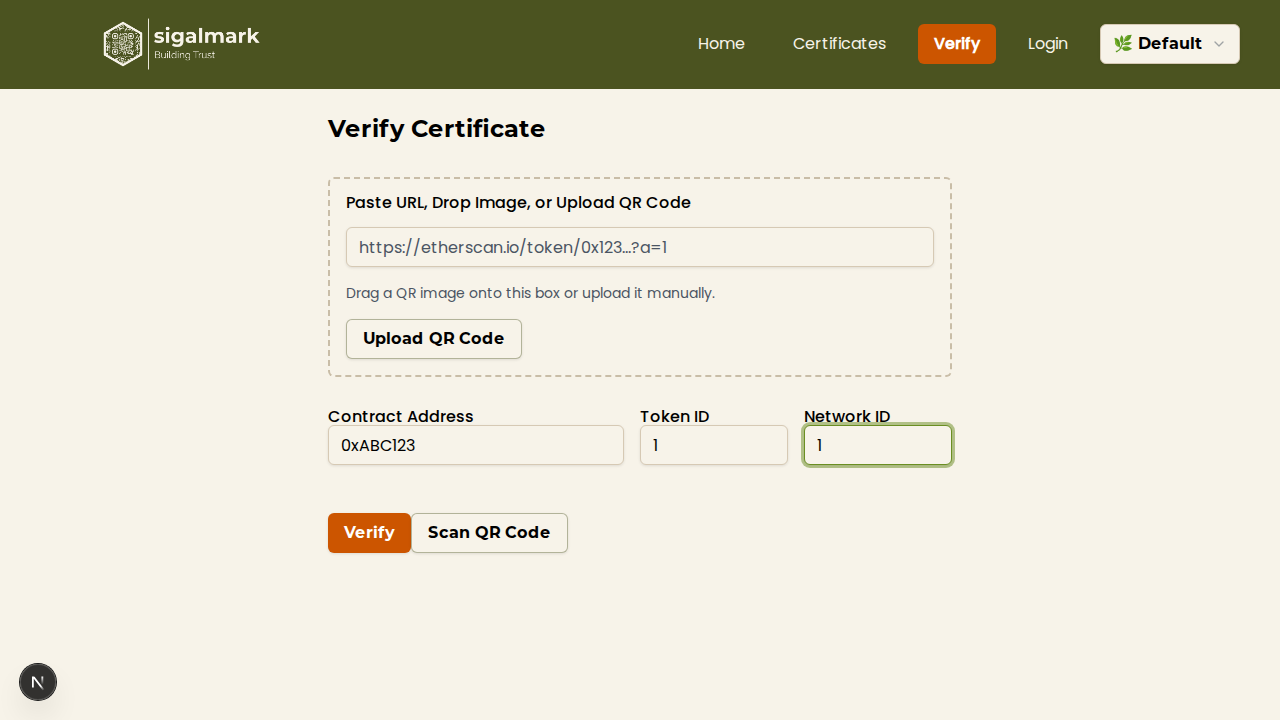
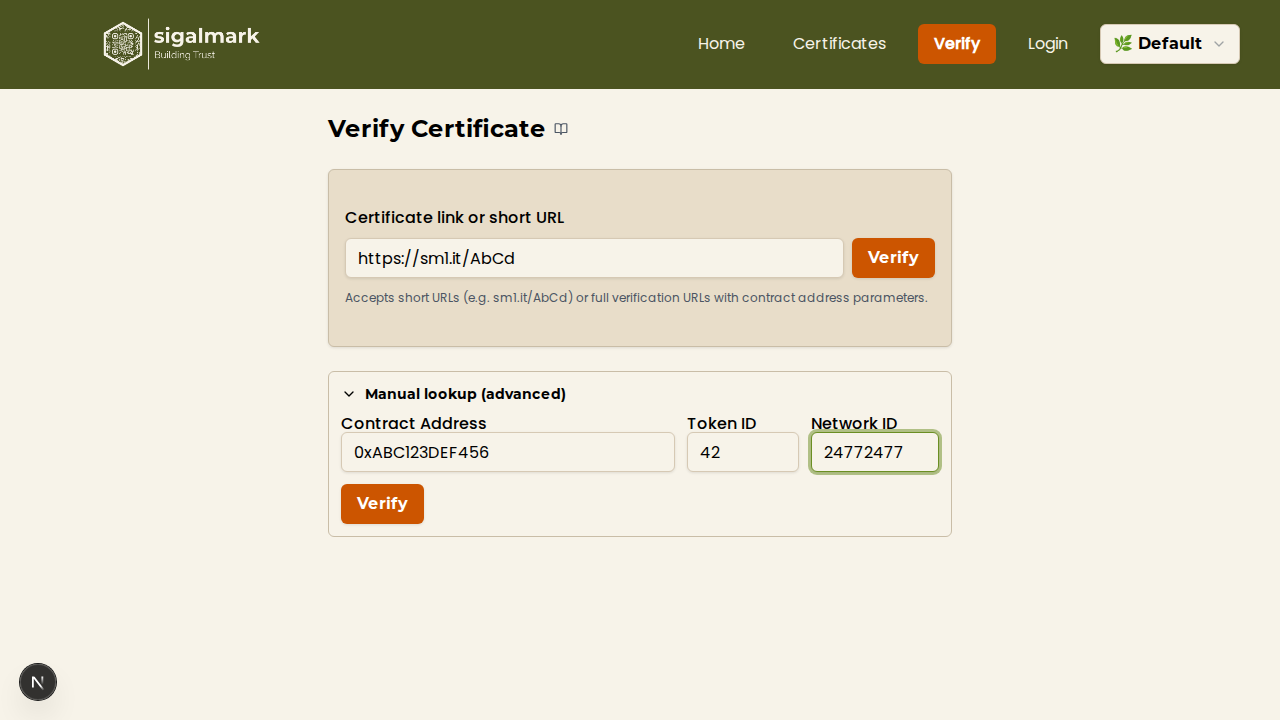
docs: update verification screenshots and docs for new verify UI

diff --git a/tutorial-user.html b/tutorial-user.html
@@ -271,59 +271,53 @@
 
     <!-- ================================================================== -->
     <h2 id="verifying-certificates">6. Verifying Certificates</h2>
-    <p>Sigalmark provides multiple ways to verify the authenticity of a certificate. Verification reads data directly from the blockchain, ensuring that the certificate is genuine and has not been tampered with.</p>
+    <p>Sigalmark lets anyone verify the authenticity of a certificate. Verification reads data directly from the blockchain, ensuring the certificate is genuine and has not been tampered with. No login is required.</p>
 
-    <h3>6.1 Verify via QR Code</h3>
+    <h3>6.1 Verify via Link</h3>
+    <p>The primary way to verify a certificate is by pasting its link:</p>
     <ol>
-      <li>Navigate to the <strong>Verify</strong> page from the main navigation (this page is publicly accessible and does not require login).</li>
-      <li>You have two options for QR code verification:
+      <li>Navigate to the <strong>Verify</strong> page from the main navigation.</li>
+      <li>Paste a certificate link into the input field. This can be:
         <ul>
-          <li><strong>Camera Scan</strong> &mdash; click the camera icon or <strong>Scan QR Code</strong> button, then point your device's camera at the certificate's QR code.</li>
-          <li><strong>Upload Image</strong> &mdash; if you have a screenshot or photo of the QR code, click <strong>Upload</strong> and select the image file from your device.</li>
+          <li>A <strong>short URL</strong> (e.g. <code>sm1.it/AbCd</code>) &mdash; typically found on QR codes.</li>
+          <li>A <strong>full verification URL</strong> with contract address parameters.</li>
         </ul>
       </li>
-      <li>The system will automatically decode the QR code and retrieve the certificate details from the blockchain.</li>
+      <li>Click <strong>Verify</strong>. The system resolves the link and fetches the certificate data from the blockchain.</li>
     </ol>
-    <img src="images/user-verify-page.png" alt="Verification page with scan and input options" style="max-width:100%;border:1px solid #e5e7eb;border-radius:8px;margin:12px 0;">
+    <img src="images/user-verify-page.png" alt="Verification page with link input and Verify button" style="max-width:100%;border:1px solid #e5e7eb;border-radius:8px;margin:12px 0;">
 
-    <h3>6.2 Verify via URL</h3>
+    <h3>6.2 Manual Lookup (Advanced)</h3>
+    <p>If you have the raw blockchain details of a certificate, expand the <strong>Manual lookup (advanced)</strong> section:</p>
     <ol>
-      <li>On the Verify page, locate the URL input field.</li>
-      <li>Paste the full certificate verification URL (e.g., a short link from <code>sm1.it</code> or a full Sigalmark verification URL).</li>
-      <li>Click <strong>Verify</strong>. The system will resolve the URL and fetch the certificate data from the blockchain.</li>
-    </ol>
-
-    <h3>6.3 Verify via Manual Input</h3>
-    <p>If you have the raw blockchain details of a certificate, you can verify it manually:</p>
-    <ol>
-      <li>On the Verify page, switch to the <strong>Manual Input</strong> section.</li>
+      <li>Click <strong>Manual lookup (advanced)</strong> to expand the form.</li>
       <li>Enter the following three fields:
         <ul>
-          <li><strong>Contract Address</strong> &mdash; the Ethereum contract address of the issuing organisation (e.g., <code>0x1234...abcd</code>).</li>
-          <li><strong>Token ID</strong> &mdash; the unique token identifier of the certificate on the blockchain.</li>
-          <li><strong>Network ID</strong> &mdash; the blockchain network ID where the certificate was minted (e.g., <code>1</code> for Ethereum Mainnet, <code>137</code> for Polygon).</li>
+          <li><strong>Contract Address</strong> &mdash; the Ethereum contract address (e.g. <code>0x742d...bD08</code>).</li>
+          <li><strong>Token ID</strong> &mdash; the unique token identifier on the blockchain.</li>
+          <li><strong>Network ID</strong> &mdash; the blockchain network ID where the certificate was minted.</li>
         </ul>
       </li>
       <li>Click <strong>Verify</strong> to look up the certificate on-chain.</li>
     </ol>
-    <img src="images/user-verify-manual.png" alt="Manual verification form with contract address, token ID, and network ID filled in" style="max-width:100%;border:1px solid #e5e7eb;border-radius:8px;margin:12px 0;">
+    <img src="images/user-verify-manual.png" alt="Manual lookup expanded with contract address, token ID, and network ID fields" style="max-width:100%;border:1px solid #e5e7eb;border-radius:8px;margin:12px 0;">
 
-    <h3>6.4 Reading Verification Results</h3>
+    <h3>6.3 Reading Verification Results</h3>
+    <p>After verification, the results are displayed in several sections:</p>
     <ol>
-      <li>After a successful verification, the results page will display the certificate details:
+      <li><strong>Verdict badge</strong> &mdash; a large coloured banner showing:
         <ul>
-          <li><strong>Recipient Name</strong> &mdash; who the certificate was issued to.</li>
-          <li><strong>Competency</strong> &mdash; the certified skill or qualification.</li>
-          <li><strong>Issuing Organisation</strong> &mdash; the name and branding of the organisation that issued it.</li>
-          <li><strong>Issue Date</strong> &mdash; when the certificate was minted.</li>
-          <li><strong>Expiry Date</strong> &mdash; when the certificate expires (if applicable).</li>
-          <li><strong>Status</strong> &mdash; whether the certificate is Active, Expired, or Revoked.</li>
+          <li><span style="color:green;font-weight:bold;">VALID</span> (green) &mdash; the certificate is authentic and current.</li>
+          <li><span style="color:red;font-weight:bold;">INVALID</span> (red) &mdash; the certificate has issues (revoked, expired, or not found).</li>
+          <li><span style="color:#666;font-weight:bold;">UNKNOWN</span> (grey) &mdash; the certificate could not be verified.</li>
         </ul>
       </li>
-      <li>A clear <strong>"Certificate validated"</strong> message confirms the certificate is authentic and recorded on the blockchain.</li>
-      <li>If the certificate has been revoked or cannot be found, an appropriate warning or error message will be displayed instead.</li>
+      <li><strong>Reason code pills</strong> &mdash; small badges explaining why the verdict was reached (e.g. "Short URL authorised", "Certificate found", "Not expired").</li>
+      <li><strong>Certificate details card</strong> &mdash; shows the recipient name, competency, issuing organisation, issue date, expiry date, and status.</li>
+      <li><strong>Technical details</strong> (collapsible) &mdash; contract address, token ID, network ID, and a link to the blockchain explorer.</li>
+      <li>Click <strong>Verify another</strong> to start a new verification.</li>
     </ol>
-    <img src="images/user-verify-result.png" alt="Verification result showing Certificate validated message" style="max-width:100%;border:1px solid #e5e7eb;border-radius:8px;margin:12px 0;">
+    <img src="images/user-verify-result.png" alt="Verification result showing VALID verdict badge, reason pills, and certificate details" style="max-width:100%;border:1px solid #e5e7eb;border-radius:8px;margin:12px 0;">
 
     <!-- ================================================================== -->
     <h2>7. Mobile App</h2>

diff --git a/verification.html b/verification.html
@@ -35,68 +35,82 @@
     </p>
 
     <h2>Verification Methods</h2>
-    <p>There are several ways to verify a certificate:</p>
 
-    <h3>1. Scan the QR Code (Mobile App)</h3>
-    <p>The fastest way to verify a certificate:</p>
+    <h3>1. Paste a Link (Primary Method)</h3>
+    <p>The simplest way to verify a certificate:</p>
     <ol>
-      <li>Open the <strong>Sigalmark mobile app</strong> on your phone.</li>
-      <li>Tap <strong>Start Scanning</strong>.</li>
-      <li>Point your camera at the QR code on the certificate.</li>
-      <li>The app will automatically read the QR code and verify the certificate on the blockchain.</li>
-      <li>You will see a <strong>pass</strong> or <strong>fail</strong> result with the certificate details.</li>
+      <li>Go to the <strong>Verify</strong> page on the Sigalmark website (no login required).</li>
+      <li>Paste a certificate link into the input field. This can be:
+        <ul>
+          <li>A <strong>short URL</strong> (e.g. <code>sm1.it/AbCd</code>) &mdash; found on certificate QR codes.</li>
+          <li>A <strong>full verification URL</strong> with contract address parameters.</li>
+        </ul>
+      </li>
+      <li>Click <strong>Verify</strong>. The system resolves the link and fetches the certificate data from the blockchain.</li>
     </ol>
 
     <div class="info-box">
       <strong>Tip</strong>
-      You can also scan Sigalmark QR codes with your phone's built-in camera app. The QR code contains a short URL
-      that opens the web verification page.
+      You can scan a certificate QR code with your phone's camera app. It will open the short URL in your browser,
+      where you can verify it directly.
     </div>
 
-    <h3>2. Scan or Upload a QR Code (Web)</h3>
+    <h3>2. Manual Lookup (Advanced)</h3>
+    <p>If you have the raw blockchain details of a certificate:</p>
     <ol>
-      <li>Go to the <strong>Verify</strong> page on the Sigalmark website.</li>
-      <li>Either use the <strong>QR Scanner</strong> button to scan with your camera, or drag-and-drop / upload a QR code image.</li>
-      <li>The system will decode the QR code and verify the certificate automatically.</li>
-    </ol>
-
-    <h3>3. Paste a URL</h3>
-    <ol>
-      <li>Go to the <strong>Verify</strong> page.</li>
-      <li>Paste a certificate short URL (e.g. <code>sm1.it/AbCd</code>) or full verification URL into the input field.</li>
-      <li>Click <strong>Verify</strong>.</li>
-    </ol>
-
-    <h3>4. Manual Lookup</h3>
-    <p>If you have the technical details of a certificate:</p>
-    <ol>
-      <li>Go to the <strong>Verify</strong> page.</li>
+      <li>On the Verify page, click <strong>Manual lookup (advanced)</strong> to expand the form.</li>
       <li>Enter the <strong>Contract Address</strong>, <strong>Token ID</strong>, and <strong>Network ID</strong>.</li>
       <li>Click <strong>Verify</strong>.</li>
     </ol>
 
-    <h2>Verification Results</h2>
-    <p>After verification, you will see the certificate details:</p>
-    <ul>
-      <li><strong>Status</strong> &mdash; Valid, Expired, or Revoked.</li>
-      <li><strong>Name</strong> &mdash; The certified company or individual.</li>
-      <li><strong>Competency</strong> &mdash; The qualification or certification type.</li>
-      <li><strong>Issued</strong> &mdash; The date the certificate was issued.</li>
-      <li><strong>Expiry</strong> &mdash; The date the certificate expires.</li>
-      <li><strong>Network</strong> &mdash; The blockchain network where the certificate is stored.</li>
-    </ul>
+    <h3>3. Scan the QR Code (Mobile App)</h3>
+    <p>For on-the-go verification:</p>
+    <ol>
+      <li>Open the <strong>Sigalmark mobile app</strong> on your phone.</li>
+      <li>Tap <strong>Start Scanning</strong> and point your camera at the certificate's QR code.</li>
+      <li>The app will verify the certificate and show a pass/fail result with details.</li>
+    </ol>
 
-    <h3>Status Meanings</h3>
+    <h2>Verification Results</h2>
+    <p>After verification, results are displayed in several sections:</p>
+
+    <h3>Verdict Badge</h3>
+    <p>A large coloured banner at the top shows the overall result:</p>
     <table>
       <thead>
-        <tr><th>Status</th><th>What It Means</th></tr>
+        <tr><th>Verdict</th><th>Colour</th><th>Meaning</th></tr>
       </thead>
       <tbody>
-        <tr><td><strong>Valid</strong></td><td>The certificate is authentic and has not expired or been revoked.</td></tr>
-        <tr><td><strong>Expired</strong></td><td>The certificate has passed its expiry date. It was authentic but is no longer current.</td></tr>
-        <tr><td><strong>Revoked</strong></td><td>The certificate has been permanently revoked by the issuing organisation.</td></tr>
+        <tr><td><strong>VALID</strong></td><td>Green</td><td>The certificate is authentic, current, and not revoked.</td></tr>
+        <tr><td><strong>INVALID</strong></td><td>Red</td><td>The certificate has issues &mdash; it may be revoked, expired, or not found.</td></tr>
+        <tr><td><strong>UNKNOWN</strong></td><td>Grey</td><td>The certificate could not be verified (e.g. unrecognised URL or network error).</td></tr>
       </tbody>
     </table>
+
+    <h3>Reason Code Pills</h3>
+    <p>Below the verdict, small coloured pills explain why the verdict was reached. Examples:</p>
+    <ul>
+      <li><strong>Short URL authorised</strong> &mdash; the short link was resolved successfully.</li>
+      <li><strong>Certificate found</strong> &mdash; the certificate exists on the blockchain.</li>
+      <li><strong>Not expired</strong> / <strong>Not revoked</strong> &mdash; the certificate is still current.</li>
+      <li><strong>Certificate revoked</strong> / <strong>Certificate expired</strong> &mdash; issues found.</li>
+    </ul>
+
+    <h3>Certificate Details Card</h3>
+    <p>Shows the full certificate information:</p>
+    <ul>
+      <li><strong>Name</strong> &mdash; The certified company or individual.</li>
+      <li><strong>Competency</strong> &mdash; The qualification or certification type.</li>
+      <li><strong>Issued by</strong> &mdash; The issuing organisation.</li>
+      <li><strong>Issued / Expiry</strong> &mdash; Certificate dates.</li>
+      <li><strong>Status</strong> &mdash; Valid, Expired, or Revoked.</li>
+    </ul>
+
+    <h3>Technical Details</h3>
+    <p>
+      A collapsible section shows the blockchain details: contract address, token ID, network ID,
+      and a link to the blockchain explorer where the NFT can be inspected independently.
+    </p>
 
     <h2>Branded Verification Pages</h2>
     <p>
